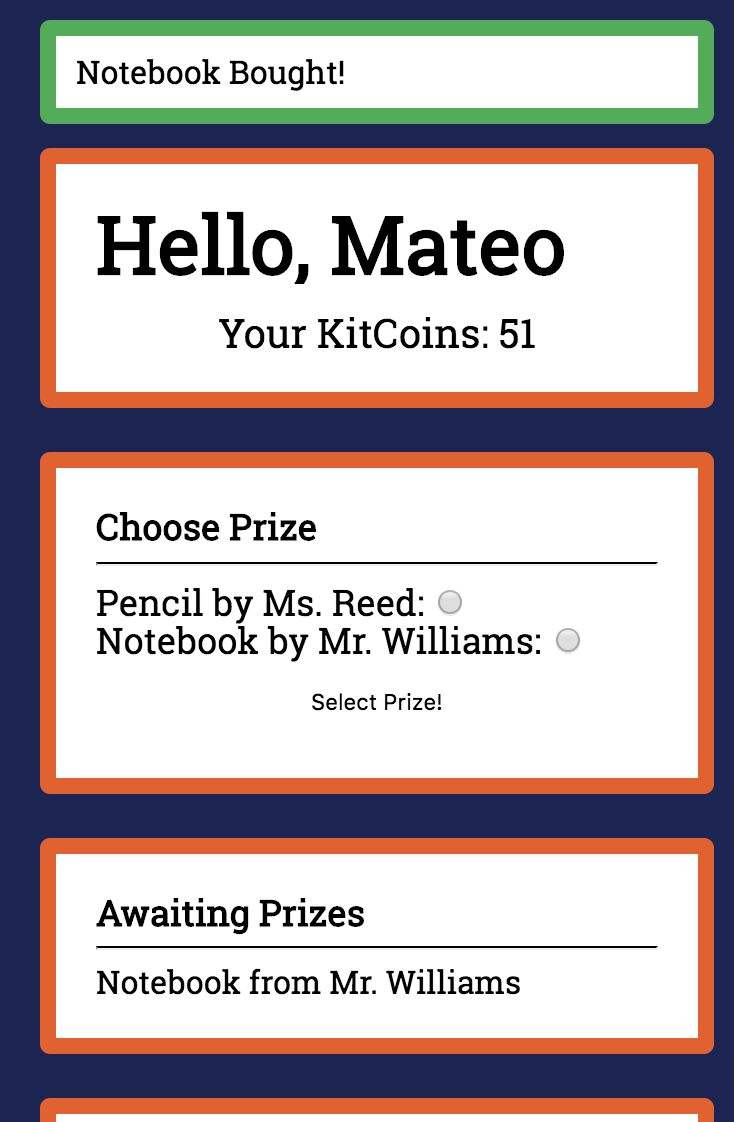
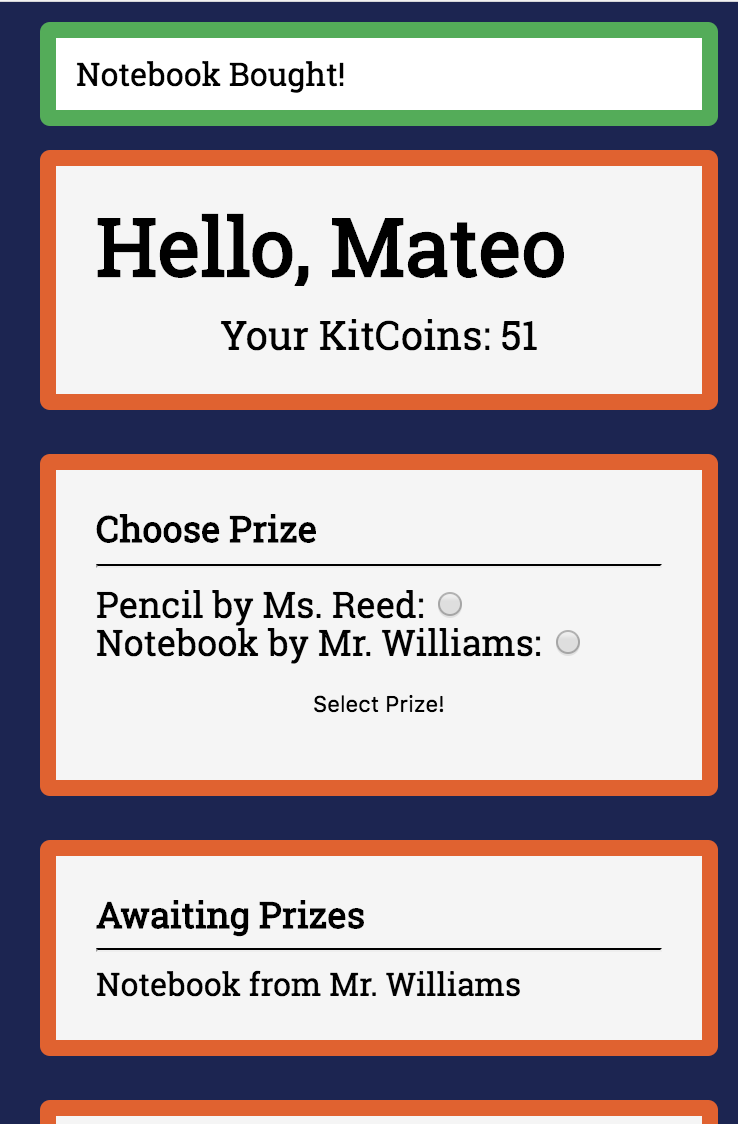
fixed image

diff --git a/style.css b/style.css
@@ -24,7 +24,7 @@ body {
   left: 140px;
   top: 50%;
   transform: translate(0, -50%);
-  background: url(https://mateocf.github.io/mateocf/Work2.png) no-repeat center center fixed;
+  background: url(https://mateocf.github.io/mateocf/Work3.png) no-repeat center center fixed;
   -webkit-background-size: cover;
   -moz-background-size: cover;
   -o-background-size: cover;
